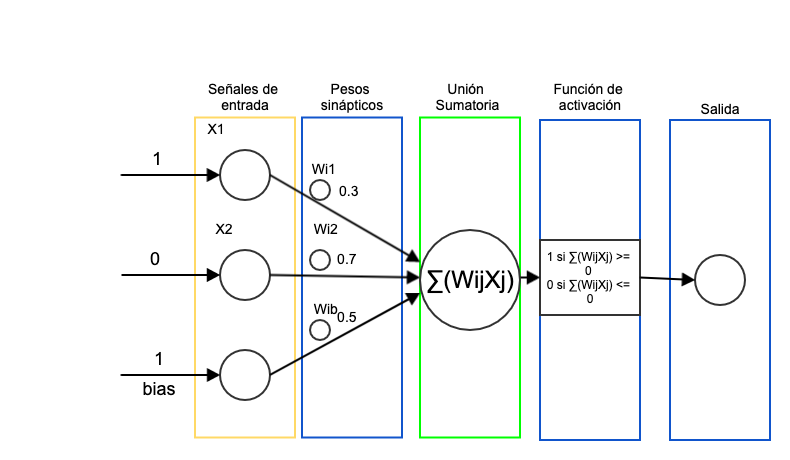
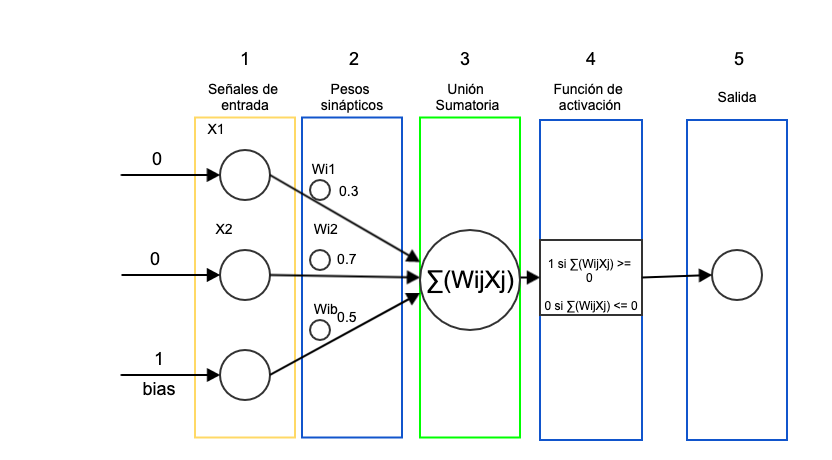
2 commit

diff --git a/README.md b/README.md
@@ -40,15 +40,56 @@ Para entender cómo funciona un perceptrón, a continuación realizaremos una ej
 
 La compuerta lógica AND realiza un producto booleano dadas dos entradas, la condición que debe cumplir la compuerta AND es definida por la siguiente tabla de verdad.
 
-| Entrada| Entrada | Salida |
-| ------ |---------| ------:|
-|   A    |    B    | Output |
-|   0    |    0    |   0    |
-|   0    |    0    |   0    |
-|   1    |    0    |   0    |
-|   1    |    1    |   1    |
+| Entrada A| Entrada B | Salida |
+| -------|-------------| ------:|
+|   0    |    0        |   0    |
+|   0    |    1        |   0    |
+|   1    |    0        |   0    |
+|   1    |    1        |   1    |
 
-![Perceptron](/media/Perceptron.png)
+## Flujo del funcionamiento
+![PerceptronE](/media/PerceptronE.png)
+
+#### Caso 1: Entrada 0, Entrada 0 ----> Salida 0
+1. Se toman 2 entradas Entrada 0, Entrada 0, el tercer parámetro denominado bias es un valor de sesgo que permite cambiar  o disparar la función de activación hacia la izq. o der. para garantizar un aprendizaje exitoso.
+2. Se generán los pesos aleatorios Wi1, Wi2 en el rango [0-1], Wi1=0.3, Wi2=0.7, Wib=0.5
+3. Se realiza la suma ponderada de las entradas por los pesos
+suma = ((0X0.3)+(0X0.7)) + (1X0.5)
+suma = (0 + 0 + 0.5)
+suma = 0.5
+4. Función de activación:
+1 si suma >= 0
+0 si suma <= 0
+Para nuestro caso obtuvimos una suma de 0.5 (de acuerdo con la condición de la función de aptitud) entonces nuestra salida es 0
+5. Salida: Obtuvimos una salida 0 y nuestra salida esperada es 0 esta condición se cumple, entonces pasariamos con los valores de las siguientes entradas
+
+#### Caso 2: Entrada 0, Entrada 1 ----> 0
+1. Se toman 2 entradas Entrada 0, Entrada 1, el tercer parámetro denominado bias es un valor de sesgo que permite cambiar  o disparar la función de activación hacia la izq. o der. para garantizar un aprendizaje exitoso.
+2. Se generán nuevos pesos aleatorios Wi1, Wi2 en el rango [0-1], Wi1=0.5, Wi2=0.1, Wib=0.9
+3. Se realiza la suma ponderada de las entradas por los pesos
+suma = ((0X0.5)+(1X0.1)) + (1X0.9)
+suma = (0 + 0.1 + 0.9)
+suma = 1
+4. Función de activación:
+1 si suma >= 0
+0 si suma <= 0
+Para nuestro caso obtuvimos una suma de 1 (de acuerdo con la condición de la función de aptitud) entonces nuestra salida es 1
+5. Salida: Obtuvimos una salida 1 y nuestra salida esperada es 0 esta condición no se cumple, entonces regresamos al paso 2 y repetimos el proceso
+
+##### Regresamos al paso 2
+2. Se generán nuevos pesos aleatorios Wi1, Wi2 en el rango [0-1], Wi1=0.1, Wi2=0.1, Wib=0.5
+3. Se realiza la suma ponderada de las entradas por los pesos
+suma = ((0X0.1)+(1X0.1)) + (1X0.5)
+suma = (0 + 0.1 + 0.5)
+suma = 0.6
+4. Función de activación:
+1 si suma >= 0
+0 si suma <= 0
+Para nuestro caso obtuvimos una suma de 0.6 (de acuerdo con la condición de la función de aptitud) entonces nuestra salida es 0
+5. Salida: Obtuvimos una salida 1 y nuestra salida esperada es 0 esta condición se cumple, entonces pasariamos con los valores de las siguientes entradas
+
+
+
 
 
 

diff --git a/NeuralNetworks.md b/NeuralNetworks.md
@@ -38,6 +38,7 @@ Entonces una red neuronal se compone de un conjunto de perceptrones interconecta
 ![RedNeuronal](/media/RedNeuronal.png)
 
 ## Ejemplo
+A continuación se muestra un ejemplo del funcionamiento de un Perceptron
 
 
 
